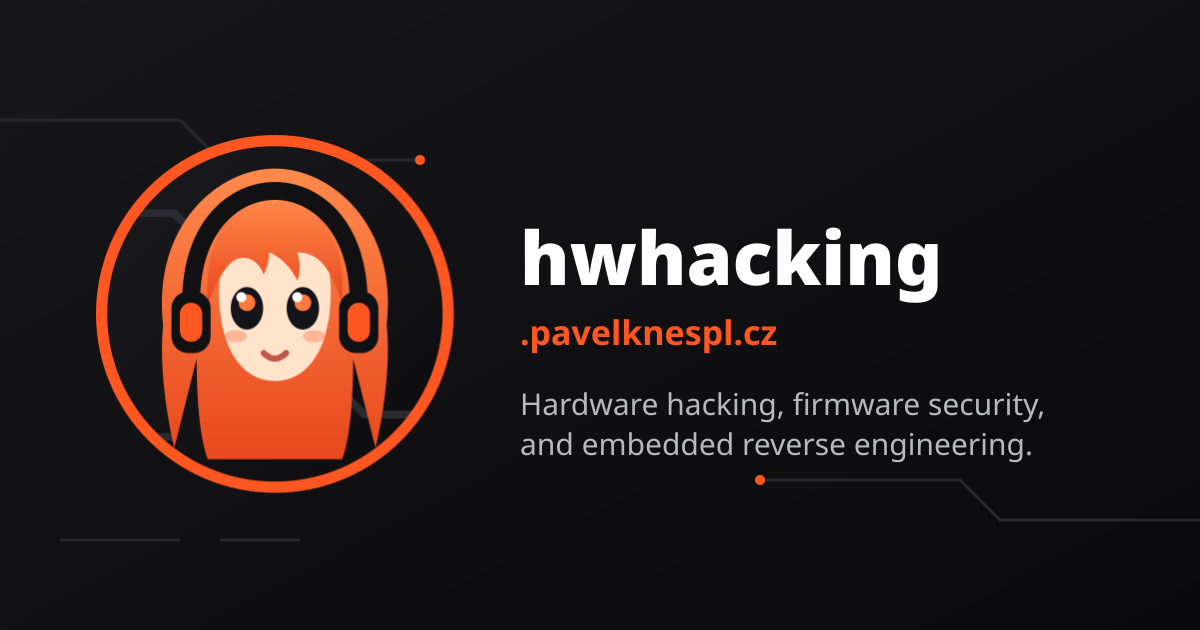
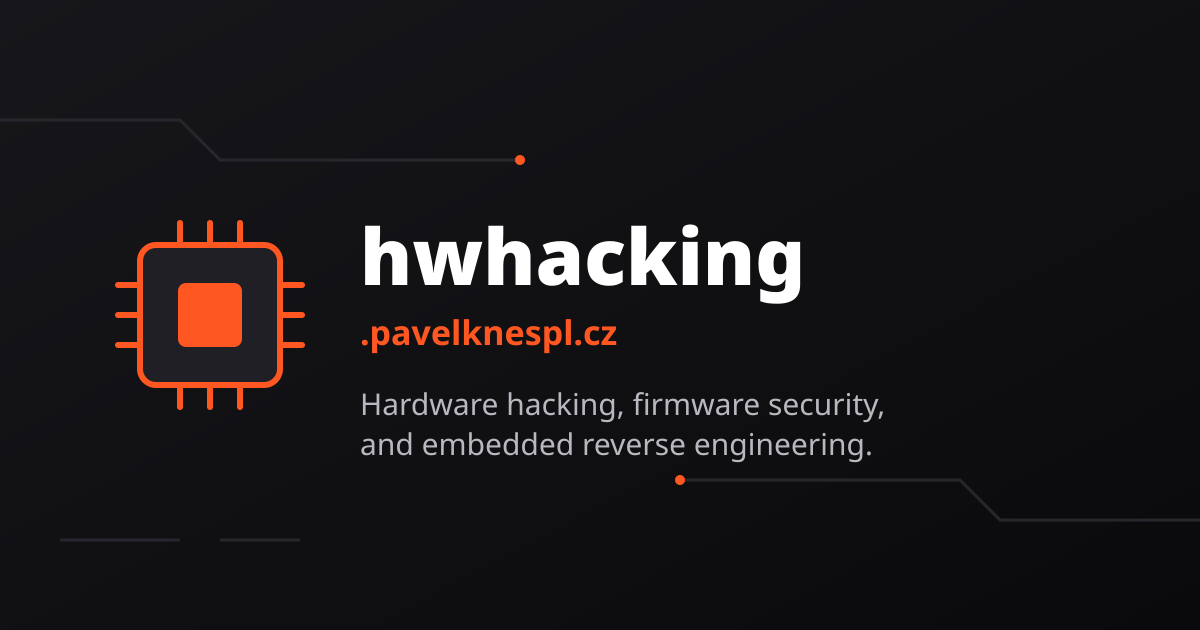
minor: no anime girl typeshit

Changed region(s): [[0.0617, 0.2111, 0.8633, 0.7841], [0.555, 0.754, 0.6475, 0.7841], [0.3392, 0.2413, 0.37, 0.2714]]

diff --git a/overrides/main.html b/overrides/main.html
@@ -13,7 +13,6 @@
   <meta name="keywords" content="hardware hacking, firmware security, embedded reverse engineering, JTAG, UART, SWD, SPI, I2C, eMMC, firmware extraction, SPI flash dump, fault injection, glitching, side-channel, FPGA bitstream, secure boot, boot ROM, chip-off, hwhacking">
   <meta name="theme-color" content="#ff5722">
   <meta name="robots" content="index, follow">
-  <link rel="apple-touch-icon" href="{{ 'assets/apple-touch-icon.png' | url }}">
 
   <meta property="og:type" content="website">
   <meta property="og:site_name" content="{{ config.site_name }}">
@@ -23,7 +22,7 @@
   <meta property="og:image" content="{{ og_image }}">
   <meta property="og:image:width" content="1200">
   <meta property="og:image:height" content="630">
-  <meta property="og:image:alt" content="hwhacking.pavelknespl.cz mascot and wordmark">
+  <meta property="og:image:alt" content="hwhacking.pavelknespl.cz wordmark">
   <meta property="og:locale" content="en">
 
   <meta name="twitter:card" content="summary_large_image">
